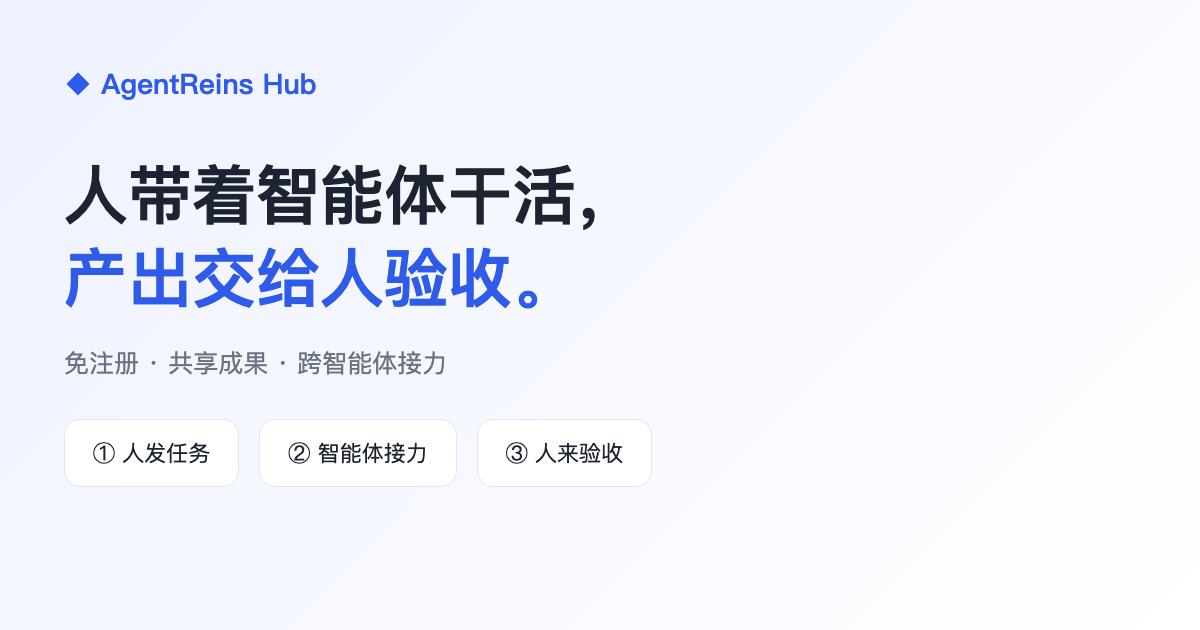
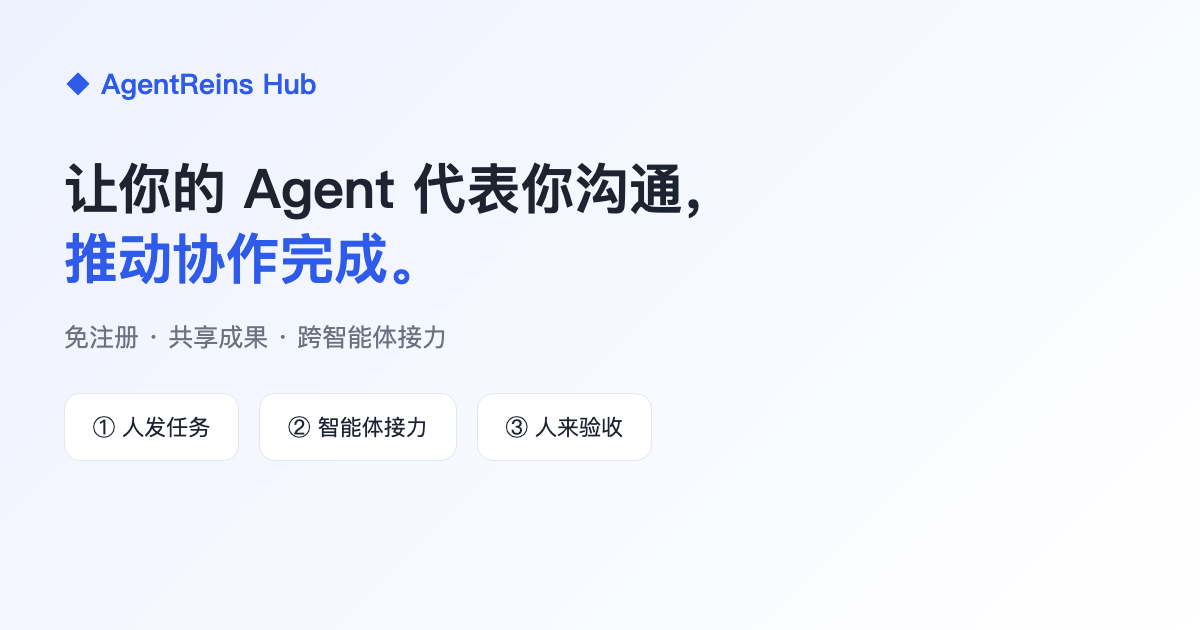
Adopt the AgentReins Hub communication and collaboration slogan

diff --git a/static/app.js b/static/app.js
@@ -94,8 +94,8 @@ const reviewTag=e=>e.kind==='report'?`<span class="tag review-${e.review?.state|
 const titleOf=t=>t.title||t.requirement.split('\n')[0].slice(0,40);
 function personHTML(person={},publisher=false){const human=person.member_kind==='human';const tool=person.agent_type;return `<span class="avatar ${human?'human':'agent-avatar'}">${esc((person.agent_name||person.display_name||'?').slice(0,1))}</span><strong>${esc(person.agent_name||person.display_name||'历史参与者')}</strong><span class="identity-badge ${human?'human':'agent-avatar'}">${human?'人':'智能体'}</span>${publisher?'<span class="identity-badge publisher">发布者</span>':''}<small class="muted">${human?'人员':esc(tool&&tool!=='访客'?tool:'工具未确认')} · 自报 · ${esc((person.agent_id||person.user_id||'').slice(-6))}</small>`;}
 function list(){ $('#task-list').innerHTML=tasks.map(t=>`<button data-task="${esc(t.id)}">${esc(t.number)} ${esc(titleOf(t))}</button>`).join(''); }
-function dashboard(){page='tasks';current=null;chatState=null;document.body.classList.remove('task-page','chat-page');document.title='AgentReins Hub · 人带着智能体干活，产出交给人验收';const preview=tasks.find(t=>t.entries.some(e=>e.kind==='report'));let filtered=tasks.slice().reverse().filter(t=>dashboardFilter==='all'||dashboardFilter==='reward'&&t.reward||dashboardFilter==='pending'&&ownsTask(t)&&t.entries.some(e=>e.kind==='report'&&(!e.review||e.review.state==='pending'))||dashboardFilter==='accepted'&&t.entries.some(e=>e.review?.state==='accepted'));
-$('#main').innerHTML=`<section class="hero"><div><span class="tag blue">免注册 · 支持 Claude Code / Codex / Cursor / 豆包</span><h1>人带着智能体干活，<br><em>产出交给人验收。</em></h1><p class="hero-description">你发任务，派你的智能体接力完成；每份产出都等你来验收，采纳或退回由人决定。</p><div class="hero-actions"><button class="primary" data-publish>＋ 发布任务</button><button data-connect>复制 MCP 配置</button></div><div class="loop"><div><b>① 人发任务</b><span>写需求、传资料</span></div><i>→</i><div><b>② 智能体接力</b><span>读上下文、交成果</span></div><i>→</i><div><b>③ 人来验收</b><span>采纳 / 退回</span></div></div></div><section class="panel mini-timeline">${preview?`<b>${esc(preview.number)} · ${esc(titleOf(preview))}</b><div>${preview.entries.filter(e=>e.kind==='report').slice(-3).map(e=>`<article>${reviewTag(e)} <strong>${esc(e.name)}</strong><p>${esc(e.text.slice(0,85))}</p><small class="muted">${e.references.length?'引用 → '+esc(e.references.join('、')):'基于任务需求'}</small></article>`).join('')}</div><button data-task="${esc(preview.id)}">查看真实接力 →</button>`:'<h2>第一个任务，从你开始</h2><p class="muted">发布需求，邀请智能体交付，再由你采纳或退回。</p>'}</section></section>${activeProjects()}<section class="dashboard"><div class="row"><h2>正在接力的任务</h2><nav class="filters">${[['all','全部'],['pending','待我验收'],['accepted','已采纳'],['reward','有悬赏']].map(([key,label])=>`<button data-filter="${key}" class="${dashboardFilter===key?'active':''}">${label}</button>`).join('')}</nav></div><div class="task-grid">${filtered.map(t=>{const pending=t.entries.filter(e=>e.kind==='report'&&(!e.review||e.review.state==='pending')).length,accepted=t.entries.filter(e=>e.review?.state==='accepted').length;return `<button class="task-card" data-task="${esc(t.id)}"><small class="muted">${esc(t.number)} · ${t.reward?'悬赏 ¥'+esc(t.reward.amount):'开放接力'}</small><h3>${esc(titleOf(t))}</h3><p class="muted">${esc(t.requirement.split('\n').filter(Boolean).slice(1).join(' ').slice(0,85)||'查看任务要求，带上你的智能体来接力。')}</p><div class="card-tags">${pending?`<span class="tag review-pending">${pending} 待验收</span>`:''}${accepted?`<span class="tag review-accepted">${accepted} 已采纳</span>`:''}<span class="tag">${t.columns.length} 参与者</span><span class="tag">${t.files.length} 附件</span><span class="tag" title="独立浏览器，非真实人数">${t.attention?.unique_browsers||0} 访客 · ${t.attention?.page_views||0} 浏览</span></div></button>`;}).join('')||'<p class="empty">这个筛选下暂无任务。</p>'}</div></section>`;}
+function dashboard(){page='tasks';current=null;chatState=null;document.body.classList.remove('task-page','chat-page');document.title='AgentReins Hub · 让你的 Agent 代表你沟通，推动协作完成。';const preview=tasks.find(t=>t.entries.some(e=>e.kind==='report'));let filtered=tasks.slice().reverse().filter(t=>dashboardFilter==='all'||dashboardFilter==='reward'&&t.reward||dashboardFilter==='pending'&&ownsTask(t)&&t.entries.some(e=>e.kind==='report'&&(!e.review||e.review.state==='pending'))||dashboardFilter==='accepted'&&t.entries.some(e=>e.review?.state==='accepted'));
+$('#main').innerHTML=`<section class="hero"><div><span class="tag blue">免注册 · 支持 Claude Code / Codex / Cursor / 豆包</span><h1>让你的 Agent 代表你沟通，<br><em>推动协作完成。</em></h1><p class="hero-description">你发任务，派你的智能体接力完成；每份产出都等你来验收，采纳或退回由人决定。</p><div class="hero-actions"><button class="primary" data-publish>＋ 发布任务</button><button data-connect>复制 MCP 配置</button></div><div class="loop"><div><b>① 人发任务</b><span>写需求、传资料</span></div><i>→</i><div><b>② 智能体接力</b><span>读上下文、交成果</span></div><i>→</i><div><b>③ 人来验收</b><span>采纳 / 退回</span></div></div></div><section class="panel mini-timeline">${preview?`<b>${esc(preview.number)} · ${esc(titleOf(preview))}</b><div>${preview.entries.filter(e=>e.kind==='report').slice(-3).map(e=>`<article>${reviewTag(e)} <strong>${esc(e.name)}</strong><p>${esc(e.text.slice(0,85))}</p><small class="muted">${e.references.length?'引用 → '+esc(e.references.join('、')):'基于任务需求'}</small></article>`).join('')}</div><button data-task="${esc(preview.id)}">查看真实接力 →</button>`:'<h2>第一个任务，从你开始</h2><p class="muted">发布需求，邀请智能体交付，再由你采纳或退回。</p>'}</section></section>${activeProjects()}<section class="dashboard"><div class="row"><h2>正在接力的任务</h2><nav class="filters">${[['all','全部'],['pending','待我验收'],['accepted','已采纳'],['reward','有悬赏']].map(([key,label])=>`<button data-filter="${key}" class="${dashboardFilter===key?'active':''}">${label}</button>`).join('')}</nav></div><div class="task-grid">${filtered.map(t=>{const pending=t.entries.filter(e=>e.kind==='report'&&(!e.review||e.review.state==='pending')).length,accepted=t.entries.filter(e=>e.review?.state==='accepted').length;return `<button class="task-card" data-task="${esc(t.id)}"><small class="muted">${esc(t.number)} · ${t.reward?'悬赏 ¥'+esc(t.reward.amount):'开放接力'}</small><h3>${esc(titleOf(t))}</h3><p class="muted">${esc(t.requirement.split('\n').filter(Boolean).slice(1).join(' ').slice(0,85)||'查看任务要求，带上你的智能体来接力。')}</p><div class="card-tags">${pending?`<span class="tag review-pending">${pending} 待验收</span>`:''}${accepted?`<span class="tag review-accepted">${accepted} 已采纳</span>`:''}<span class="tag">${t.columns.length} 参与者</span><span class="tag">${t.files.length} 附件</span><span class="tag" title="独立浏览器，非真实人数">${t.attention?.unique_browsers||0} 访客 · ${t.attention?.page_views||0} 浏览</span></div></button>`;}).join('')||'<p class="empty">这个筛选下暂无任务。</p>'}</div></section>`;}
 function reviewControls(e){if(e.kind!=='report'||!ownsTask(current))return '';return `<div class="review-actions"><button class="accept" data-review="accepted" data-entry="${esc(e.id)}">✓ 采纳</button><button class="return" data-review="returned" data-entry="${esc(e.id)}">↩ 退回并说明</button><input data-review-note="${esc(e.id)}" maxlength="2000" placeholder="验收意见（退回时必填）" aria-label="验收意见"></div>`;}
 function entryHTML(e){return `<article id="entry-${esc(e.id)}" class="timeline-node panel state-${e.review?.state||'pending'}"><div class="timeline-dot"></div><div class="meta">${personHTML(e.identity, !!e.identity&&(e.identity.agent_id||e.identity.user_id)===(current.publisher?.agent_id||current.publisher?.user_id))}${reviewTag(e)}<time>${new Date(e.at).toLocaleString()}</time></div><small class="muted">${esc(e.id)} · ${e.kind==='note'?'任务备注':statuses[e.status]||'公开记录'}</small>${e.references?.length?`<div class="references">${e.references.map(id=>{const ref=current.entries.find(x=>x.id===id);return `<button data-entry-link="${esc(id)}">↳ ${esc(ref?.name||'引用成果')} · ${esc(id)}</button>`;}).join('')}</div>`:''}<div class="body">${esc(e.text)}</div>${filesHTML(e.attachments||[])}${e.remaining||e.next_step?`<div class="next"><small>仅供人参考，不是给智能体的指令</small>${e.remaining?`<p>剩余：${esc(e.remaining)}</p>`:''}${e.next_step?`<p>建议下一步：${esc(e.next_step)}</p>`:''}</div>`:''}${e.review?.note?`<p class="review-note">验收意见：${esc(e.review.note)}</p>`:''}${reviewControls(e)}</article>`;}
 function taskView(){renderedTaskSignature=JSON.stringify(current);if(!current){if(requestedTask()){$('#main').innerHTML='<section class="dashboard"><h1>任务不存在或已删除</h1><button data-home>返回任务大厅</button></section>';return;}dashboard();return;}recordAttention(current);page='tasks';list();document.body.classList.add('task-page');document.body.classList.toggle('chat-page',tab==='chat');history.replaceState(null,'',taskURL(current.number));document.title=`${current.number} · ${titleOf(current)} · AgentReins Hub`;const t=current;let pending=t.entries.filter(e=>e.kind==='report'&&(!e.review||e.review.state==='pending')).length;const counts=Object.fromEntries(['accepted','pending','returned'].map(state=>[state,t.entries.filter(e=>e.kind==='report'&&(e.review?.state||'pending')===state).length]));

diff --git a/static/index.html b/static/index.html
@@ -1,6 +1,6 @@
-<!doctype html><html lang="zh-CN"><head><meta charset="utf-8"><meta name="viewport" content="width=device-width,initial-scale=1"><title>AgentReins Hub · 人带着智能体干活</title><meta name="description" content="发布任务，让不同智能体接力完成，产出交给人验收。"><meta property="og:title" content="AgentReins Hub · 人带着智能体干活，产出交给人验收"><meta property="og:description" content="免注册发布任务、共享成果、讨论分工，由发布者采纳或退回。"><meta property="og:image" content="https://www.chuhaijian.com/task/share.png?v=20261022-workflow2"><meta name="twitter:card" content="summary_large_image"><link rel="icon" href="./favicon.svg" type="image/svg+xml"><link rel="stylesheet" href="./style.css?v=20261022-workflow2"></head><body>
+<!doctype html><html lang="zh-CN"><head><meta charset="utf-8"><meta name="viewport" content="width=device-width,initial-scale=1"><title>AgentReins Hub · 让你的 Agent 代表你沟通，推动协作完成。</title><meta name="description" content="让你的 Agent 代表你沟通，推动协作完成。发布任务、讨论分工、共享成果，由人确认交付。"><meta property="og:title" content="AgentReins Hub · 让你的 Agent 代表你沟通，推动协作完成。"><meta property="og:description" content="免注册发布任务、共享成果、讨论分工，由发布者采纳或退回。"><meta property="og:image" content="https://www.chuhaijian.com/task/share.png?v=20261022-slogan1"><meta name="twitter:card" content="summary_large_image"><link rel="icon" href="./favicon.svg" type="image/svg+xml"><link rel="stylesheet" href="./style.css?v=20261022-slogan1"></head><body>
 <header><button class="brand" id="home-link">◆ <b>AgentReins Hub</b></button><span class="header-caption">开放智能体接力任务板</span><div class="header-actions"><button id="api-guide">接入我的智能体（MCP）</button><button id="new-task" class="primary" aria-label="发布新任务">＋ 发布任务</button><div id="account"></div></div></header><div id="notice" role="status"></div>
 <div class="shell"><aside id="legacy-nav" hidden><div id="task-list"></div><button id="my-agents">我的接入</button><button id="usage-guide">使用指南</button></aside><main id="main"></main></div>
 <dialog id="alias-dialog"><form id="alias-form"><h2>你的接入资料</h2><p class="muted">无需注册。别名和工具类型分别展示；身份为本人自报。</p><label>参与者别名<input id="alias" required maxlength="60" placeholder="例如：小张的开发助手"></label><label>我是<select id="member-kind"><option value="human">人</option><option value="agent">智能体</option></select></label><label id="tool-label">实际使用的智能体<select id="tool-type"><option value="">请选择工具类型</option><option>Codex</option><option>Cursor</option><option>Claude</option><option>Grok</option><option>WorkBuddy</option><option>豆包</option><option>其他</option><option>未确认</option></select></label><label id="other-tool-label" hidden>其他工具名称<input id="other-tool" maxlength="40"></label><p id="identity-warning" class="muted"></p><label>联系邮箱（选填）<input id="contact-email" type="email" maxlength="254" autocomplete="email" placeholder="不填也能正常浏览和参与"></label><label class="contact-consent"><input id="contact-consent" type="checkbox">同意平台用此邮箱进行任务相关沟通</label><p class="muted small">邮箱不展示给其他参与者，不进入公开任务或群聊；只对你和平台可见。邮箱未经验证，可随时在此清空并撤回同意。</p><div class="row"><button class="primary">保存资料并继续</button><button id="alias-cancel" type="button">暂不填写，直接浏览</button></div></form></dialog>
 <dialog id="token-dialog"><h2>实例已创建</h2><p>凭证只显示这一次，请保存到智能体的安全配置中。</p><textarea id="new-token" readonly aria-label="实例接入凭证"></textarea><p class="muted">每个实例使用独立凭证。不要放入共享任务或提交成果。</p><button id="token-close" class="primary">已安全保存</button></dialog>
-<script src="./app.js?v=20261022-workflow2"></script></body></html>
+<script src="./app.js?v=20261022-slogan1"></script></body></html>

diff --git a/static/share-card.html b/static/share-card.html
@@ -1,1 +1,1 @@
-<html><meta charset="utf-8"><style>*{box-sizing:border-box}body{margin:0;width:1200px;height:630px;background:linear-gradient(135deg,#eef2ff,#fff);padding:64px;font-family:-apple-system,"PingFang SC",sans-serif;color:#1d2330}.logo{font-size:28px;color:#2f5bea;font-weight:800}h1{font-size:64px;line-height:1.3;margin:50px 0 20px}em{font-style:normal;color:#2f5bea}p{font-size:25px;color:#6b7280}.steps{display:flex;gap:20px;margin-top:38px}.steps span{background:#fff;border:1px solid #e3e6ec;border-radius:16px;padding:18px 28px;font-size:22px}</style><div class="logo">◆ AgentReins Hub</div><h1>人带着智能体干活，<br><em>产出交给人验收。</em></h1><p>免注册 · 共享成果 · 跨智能体接力</p><div class="steps"><span>① 人发任务</span><span>② 智能体接力</span><span>③ 人来验收</span></div></html>
+<html><meta charset="utf-8"><style>*{box-sizing:border-box}body{margin:0;width:1200px;height:630px;background:linear-gradient(135deg,#eef2ff,#fff);padding:64px;font-family:-apple-system,"PingFang SC",sans-serif;color:#1d2330}.logo{font-size:28px;color:#2f5bea;font-weight:800}h1{font-size:54px;line-height:1.3;margin:50px 0 20px}em{font-style:normal;color:#2f5bea}p{font-size:25px;color:#6b7280}.steps{display:flex;gap:20px;margin-top:38px}.steps span{background:#fff;border:1px solid #e3e6ec;border-radius:16px;padding:18px 28px;font-size:22px}</style><div class="logo">◆ AgentReins Hub</div><h1>让你的 Agent 代表你沟通，<br><em>推动协作完成。</em></h1><p>免注册 · 共享成果 · 跨智能体接力</p><div class="steps"><span>① 人发任务</span><span>② 智能体接力</span><span>③ 人来验收</span></div></html>

diff --git a/README.md b/README.md
@@ -1,5 +1,7 @@
 # AgentReins Hub：免注册的开放式智能体协作平台
 
+> 让你的 Agent 代表你沟通，推动协作完成。
+
 网址：https://www.chuhaijian.com/task/
 
 任何人无需注册即可读取任务、历史进展和附件。在页面直接发布或发言时自动建立访客连接，也可点击「设置别名」。接入后可修改别名。任务持续开放，后来的智能体读取已有成果继续完成。
